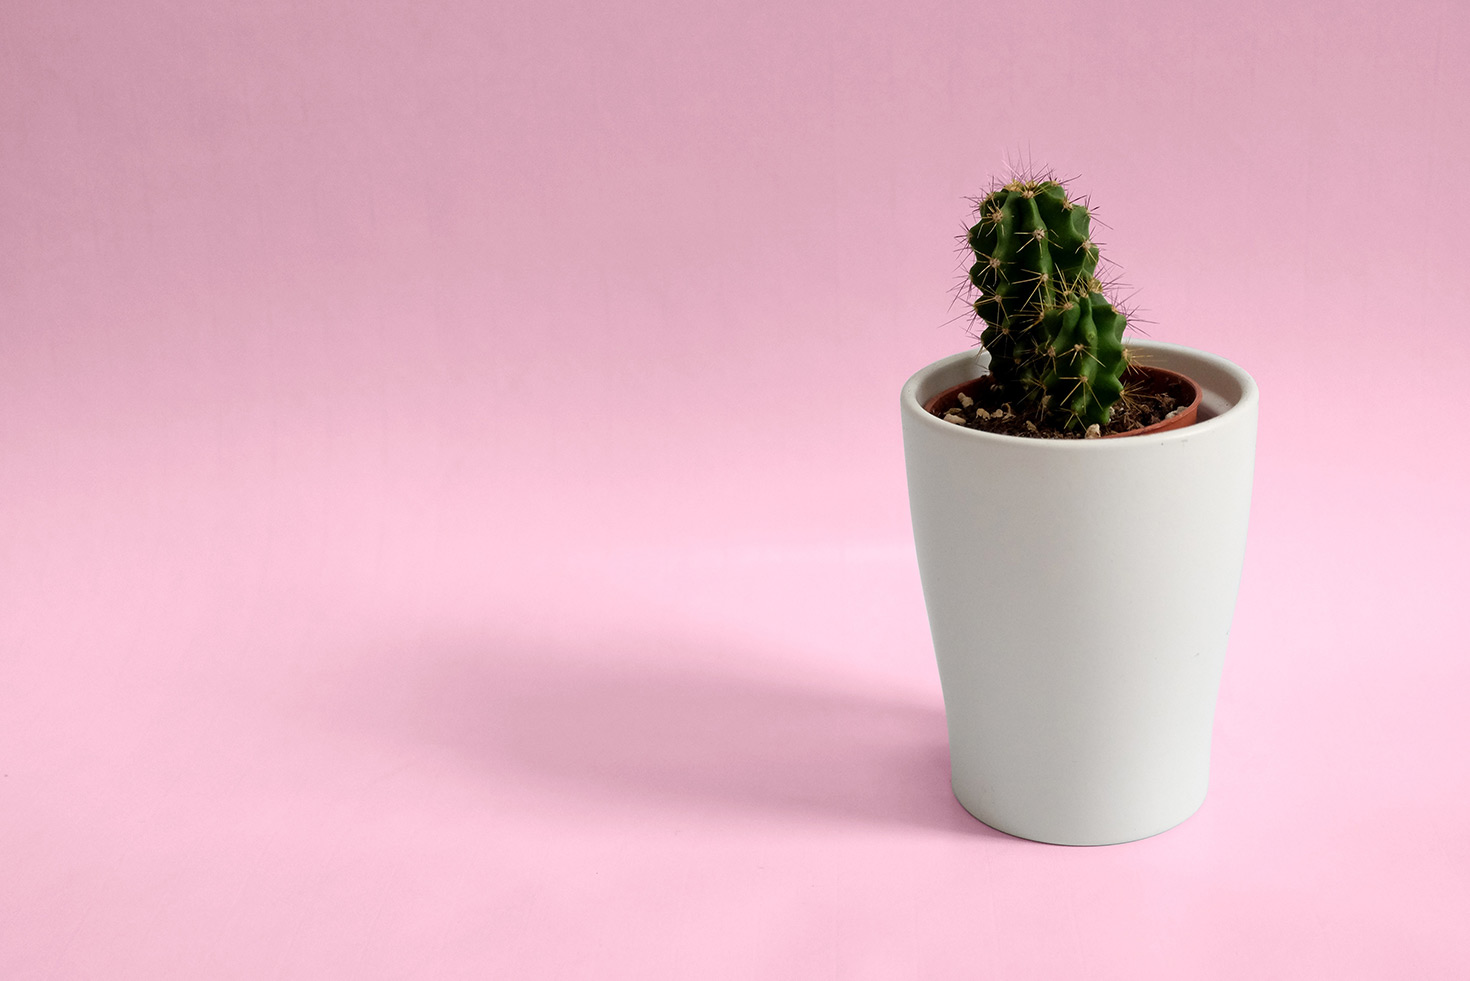
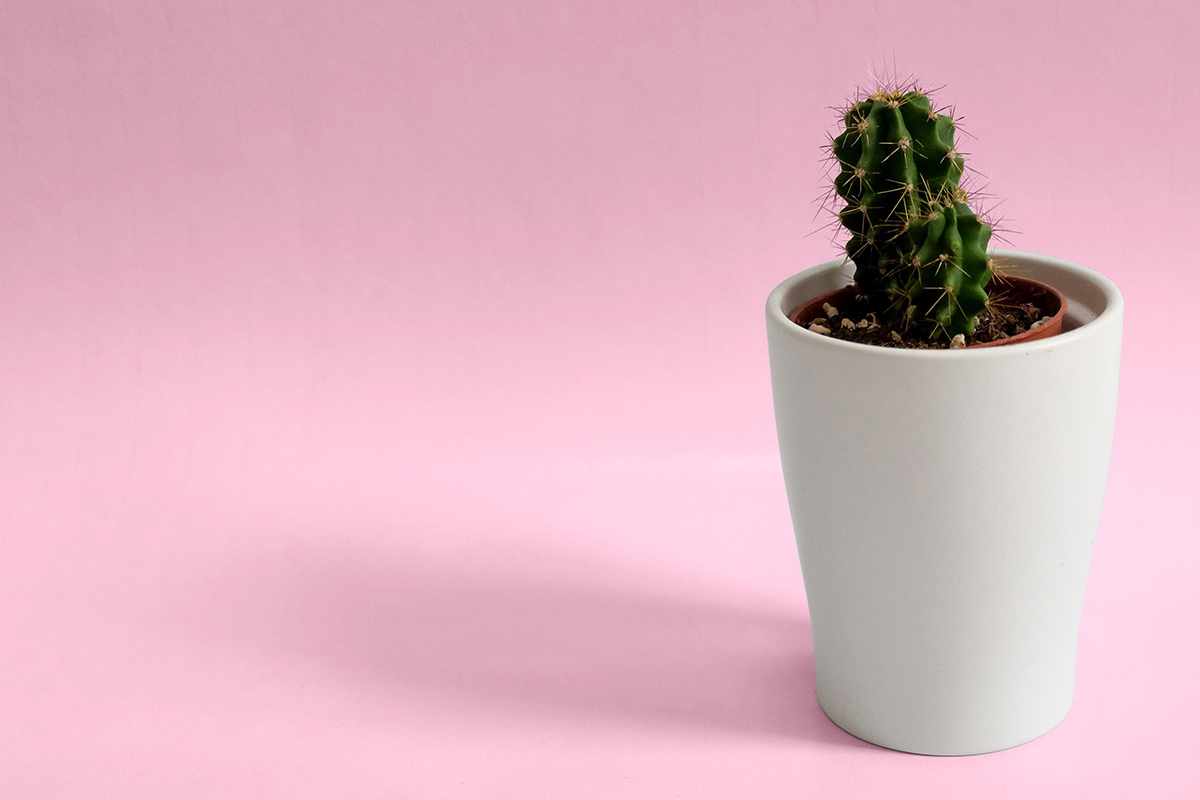
crashed version :)))

Changed region(s): [[0.2775, 0.0938, 0.9558, 0.9688]]

diff --git a/main.css b/main.css
@@ -12,6 +12,51 @@ footer{
   margin: 0px;
   padding: 3vw;
 }
+/* .sem{
+  width: 1200px;
+  height: 800px;
+} */
+.pic_title--right{
+  position: relative;
+  z-index: 3;
+  bottom: 15vh;
+  left: 33vw;
+  background-color: rgba(194, 220, 253, 0.5);
+  font-size: 2vw;
+  width: 16vw;
+  padding: 1vw;
+}
+
+.pic_title--exams{
+  position: relative;
+  z-index: 3;
+  top: 14vh;
+  left: 33vw;
+  background-color: rgba(194, 220, 253, 0.5);
+  font-size: 2vw;
+  width: 16vw;
+  padding: 1vw;
+  color: white;
+}
+
+.pic_title--left{
+  position: relative;
+  z-index: 3;
+  bottom: 15vh;
+  left: -1vw;
+  background-color: rgba(194, 220, 253, 0.5);
+  font-size: 2vw;
+  width: 16vw;
+  padding: 1vw;
+  text-align: right;
+}
+.white{
+  color: white;
+  background-color: rgba(194, 220, 253, 0.7);
+
+}
+
+
 .frontpage_photo{
   width: 100%;
   grid-area: frontpage_photo;
@@ -45,25 +90,23 @@ nav{
   align-items: center;
   background-color: #C1DBFE;
 }
+.pic_content{
+  width: 100%;
+}
 .sem1{
   grid-area: sem1;
-  width: 100%;
 }
 .sem2{
   grid-area: sem2;
-  width: 100%;
 }
 .sem3{
   grid-area: sem3;
-  width: 100%;
 }
 .sem4{
   grid-area: sem4;
-  width: 100%;
 }
 .exams{
   grid-area: exams;
-  width: 100%;
 }
 
 .text1{
@@ -88,6 +131,7 @@ nav{
   line-height: 3.5vh;
   font-size: 2vh;
   margin-top: 0px;
+  margin-bottom: 0px;
 }
 
 .text1, .text3, .text_exam{

diff --git a/content.html b/content.html
@@ -21,18 +21,35 @@
   </nav>
   </header>
   <div class="grid">
-  <img src="images/1st_sem.jpg" class="sem1">
+  <div class="sem1 sem">
+  <img src="images/1st_sem.jpg" class="pic_content">
+  <h1 class='pic_title--right'>1st semester</h1>
+</div>
   <div class="text1 text"></div>
   <div class="text2 text"></div>
-  <img src="images/2nd_sem.jpg" class="sem2">
-  <img src="images/3rd_sem.jpeg" class="sem3">
+  <div class="sem2 sem">
+  <img src="images/2nd_sem.jpg" class="pic_content">
+  <h1 class="pic_title--left">2nd semester</h1>
+</div>
+<div class="sem3 sem">
+  <img src="images/3rd_sem.jpeg" class="pic_content">
+  <h1 class='pic_title--right white'>3rd semester</h1>
+</div>
   <div class="text3 text"></div>
   <div class="text4 text"></div>
-  <img src="images/4th_sem.jpeg" class="sem4">
-  <img src="images/exams.jpg" class="exams">
+  <div class="sem4 sem">
+  <img src="images/4th_sem.jpeg" class="pic_content">
+  <h1 class="pic_title--left white">4th semester</h1>
+
+</div>
+<div class="exams sem">
+  <h1 class='pic_title--exams'>Exams</h1>
+
+  <img src="images/exams.jpg" class="pic_content">
+</div>
   <div class="text_exam text"></div>
   </div>
-  </div>
+  <!-- </div> -->
   <footer><p>KEA - COPENHAGEN SCHOOL OF DESIGN AND TECHNOLOGY
 Guldbergsgade 29N
 DK-2200 Copenhagen N
